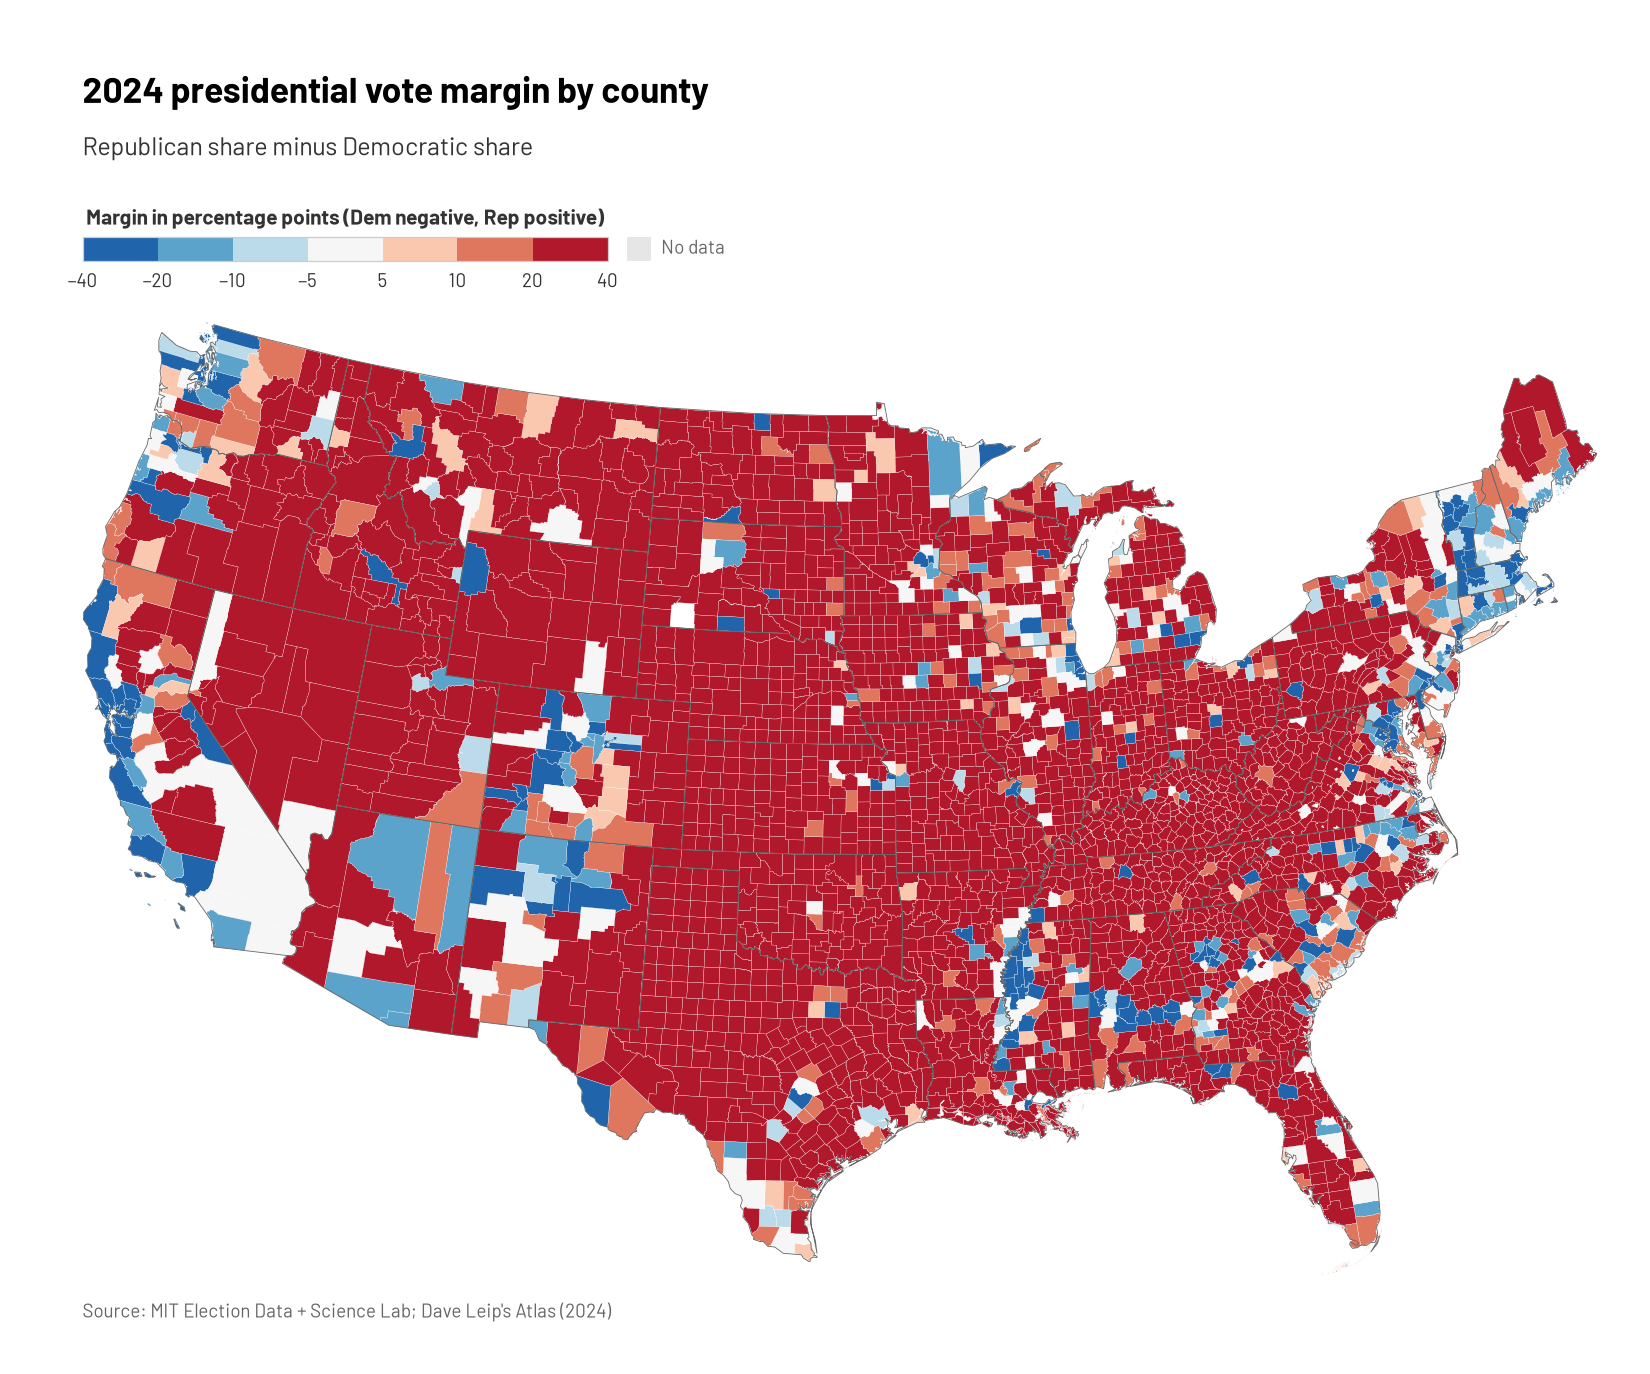
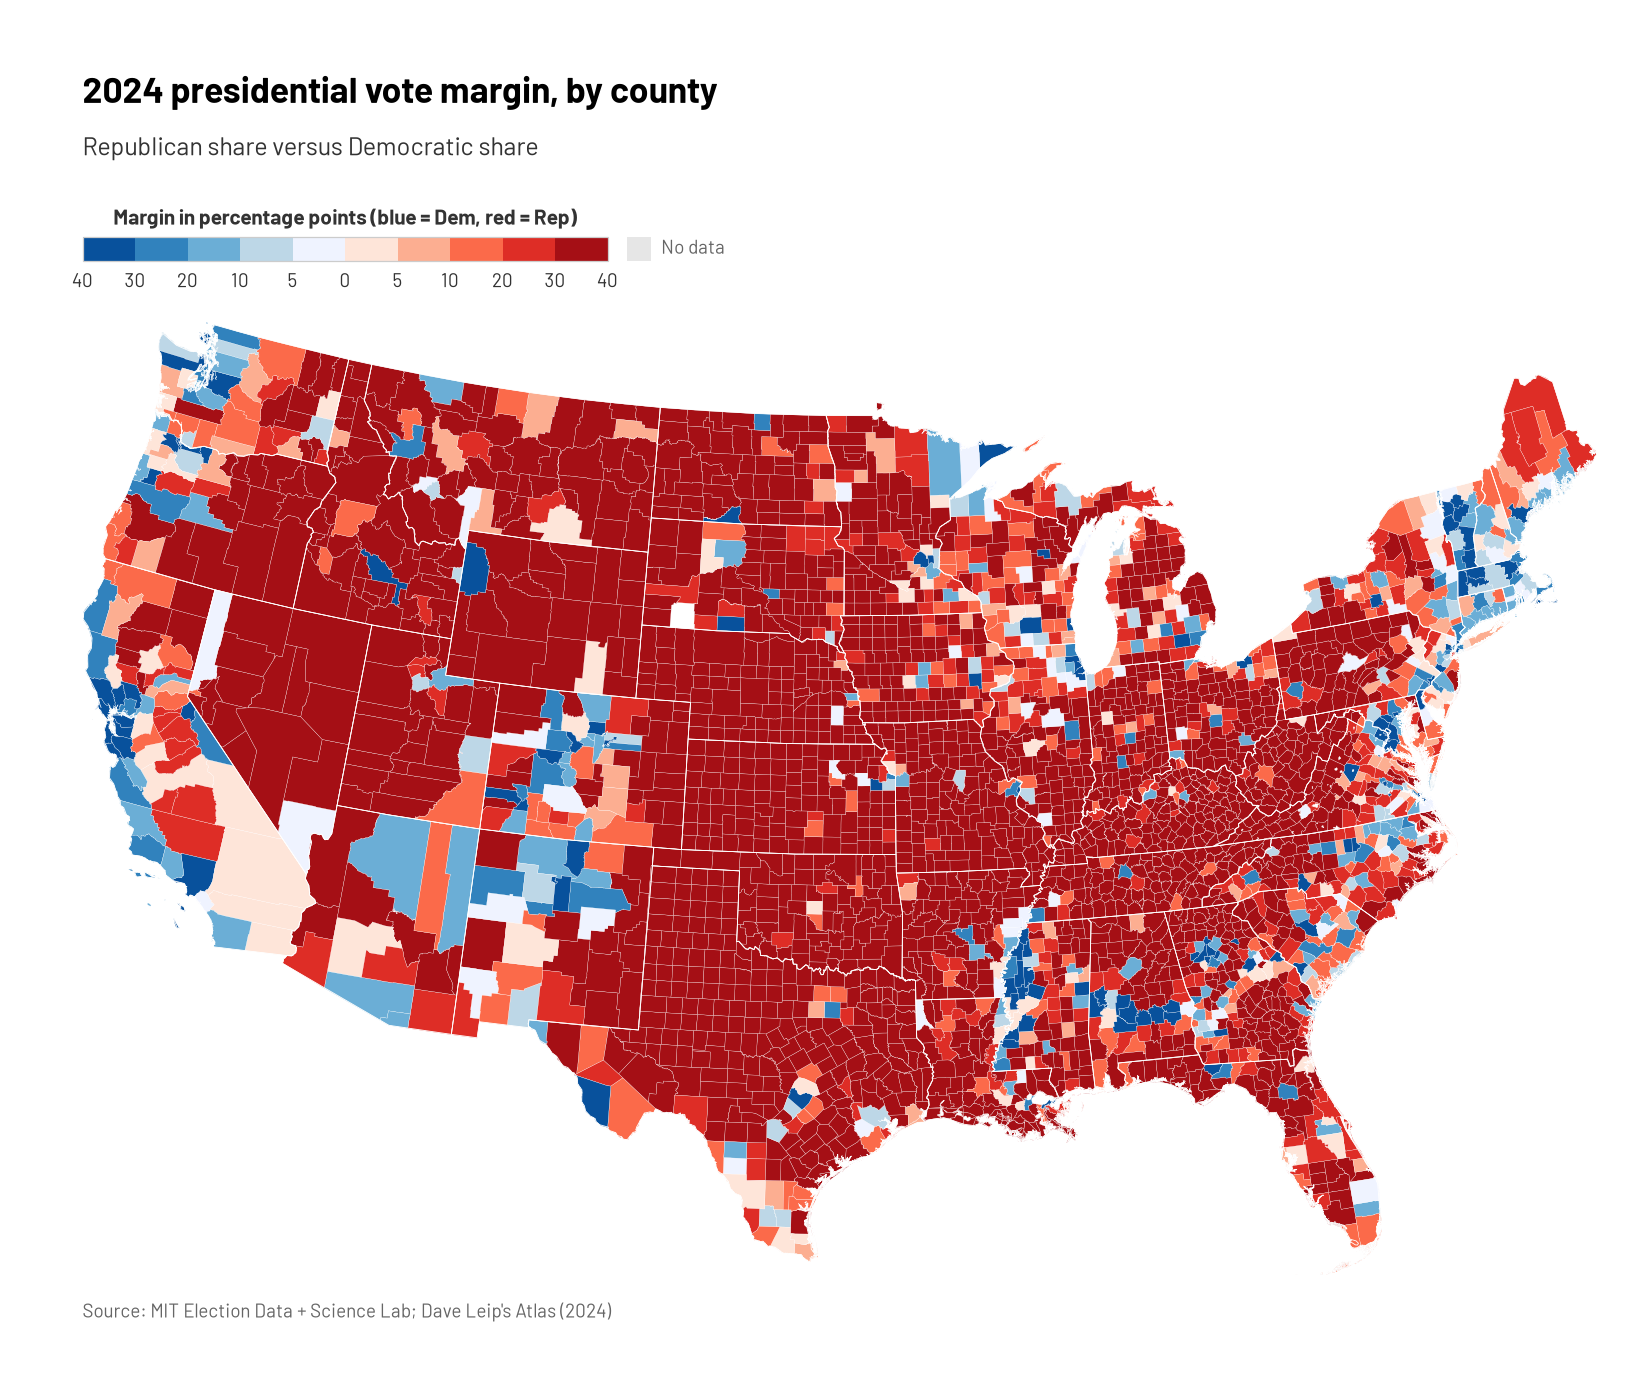
better election breaks

diff --git a/examples/election_2024_margin.py b/examples/election_2024_margin.py
@@ -2,7 +2,8 @@
 
 Reads the pre-built GeoJSON from the presidential-elections repo when present,
 otherwise looks for a cached copy under examples/data/raw/. Draws a CONUS
-choropleth with a diverging red–blue scale (Republican margin positive).
+choropleth with a diverging scale: blue for Democratic margins, red for
+Republican (no shared near-white bin across zero).
 
 Usage:
     python examples/election_2024_margin.py
@@ -11,7 +12,9 @@ Usage:
 from __future__ import annotations
 
 import geopandas as gpd
+import matplotlib
 import matplotlib.pyplot as plt
+from matplotlib.colors import ListedColormap
 
 from chorokit import Overlay, LayoutConfig, LegendConfig, plot_choropleth
 from chorokit.projection import Projection
@@ -22,9 +25,38 @@ from _common import ELECTIONS_REPO, OUT, RAW, conus, state_geometries
 SOURCE = "Source: MIT Election Data + Science Lab; Dave Leip's Atlas (2024)"
 THEME = Theme(title_fontsize=17)
 
-# Signed margin (rep − dem), percentage points. Symmetric breaks around zero.
-MARGIN_BREAKS = [-40, -20, -10, -5, 5, 10, 20, 40]
-MARGIN_LABELS = ["−40", "−20", "−10", "−5", "5", "10", "20", "40"]
+# Signed margin (rep − dem) for classification. Legend shows absolute margins
+# so Dem (blue, left of 0) and Rep (red, right of 0) both read as positive.
+MARGIN_BREAKS = [-40, -30, -20, -10, -5, 0, 5, 10, 20, 30, 40]
+MARGIN_LABELS = ["40", "30", "20", "10", "5", "0", "5", "10", "20", "30", "40"]
+
+# ColorBrewer RdBu ends, skipping the near-white center so close races still read
+# as blue (Dem) or red (Rep). Order: strong Dem → weak Dem → weak Rep → strong Rep.
+MARGIN_COLORS = [
+    "#08519c",
+    "#3182bd",
+    "#6baed6",
+    "#bdd7e7",
+    "#eff3ff",  # weak Dem — still clearly blue
+    "#fee5d9",  # weak Rep — still clearly red
+    "#fcae91",
+    "#fb6a4a",
+    "#de2d26",
+    "#a50f15",
+]
+CMAP_NAME = "chorokit_election_margin"
+
+
+def _register_margin_cmap() -> str:
+    cmap = ListedColormap(MARGIN_COLORS, name=CMAP_NAME)
+    try:
+        matplotlib.colormaps.register(cmap, name=CMAP_NAME, force=True)
+    except TypeError:
+        # older matplotlib: no force= kwarg
+        if CMAP_NAME in matplotlib.colormaps:
+            return CMAP_NAME
+        matplotlib.colormaps.register(cmap, name=CMAP_NAME)
+    return CMAP_NAME
 
 
 def load_election_2024() -> gpd.GeoDataFrame:
@@ -51,21 +83,22 @@ def main() -> None:
 
     geo = conus(gdf)
     states = conus(state_geometries())
-    overlay = Overlay(gdf=states, edgecolor="#666666", linewidth=0.4)
+    overlay = Overlay(gdf=states, edgecolor="#ffffff", linewidth=0.4)
+    cmap = _register_margin_cmap()
 
     legend = LegendConfig(
         kind="binned",
         breaks=MARGIN_BREAKS,
         labels=MARGIN_LABELS,
         label_style="boundary",
-        title="Margin in percentage points (Dem negative, Rep positive)",
+        title="Margin in percentage points (blue = Dem, red = Rep)",
         align="left",
         location="top",
         show_missing=True,
     )
     layout = LayoutConfig(
-        title="2024 presidential vote margin by county",
-        subtitle="Republican share minus Democratic share",
+        title="2024 presidential vote margin, by county",
+        subtitle="Republican share versus Democratic share",
         source=SOURCE,
         width=11.0,
         theme=THEME,
@@ -77,7 +110,7 @@ def main() -> None:
     fig, _ = plot_choropleth(
         geo,
         value="margin",
-        cmap="RdBu_r",
+        cmap=cmap,
         edgecolor="#ffffff",
         linewidth=0.12,
         legend=legend,

diff --git a/src/chorokit/classify.py b/src/chorokit/classify.py
@@ -265,5 +265,9 @@ def discrete_cmap(base: Union[str, Colormap], n: int) -> ListedColormap:
     else:
         base_cmap = base
 
+    # Keep an already-discrete palette when class count matches.
+    if isinstance(base_cmap, ListedColormap) and base_cmap.N == n:
+        return base_cmap
+
     colors = base_cmap(np.linspace(0.1, 0.9, n))
     return ListedColormap(colors)
